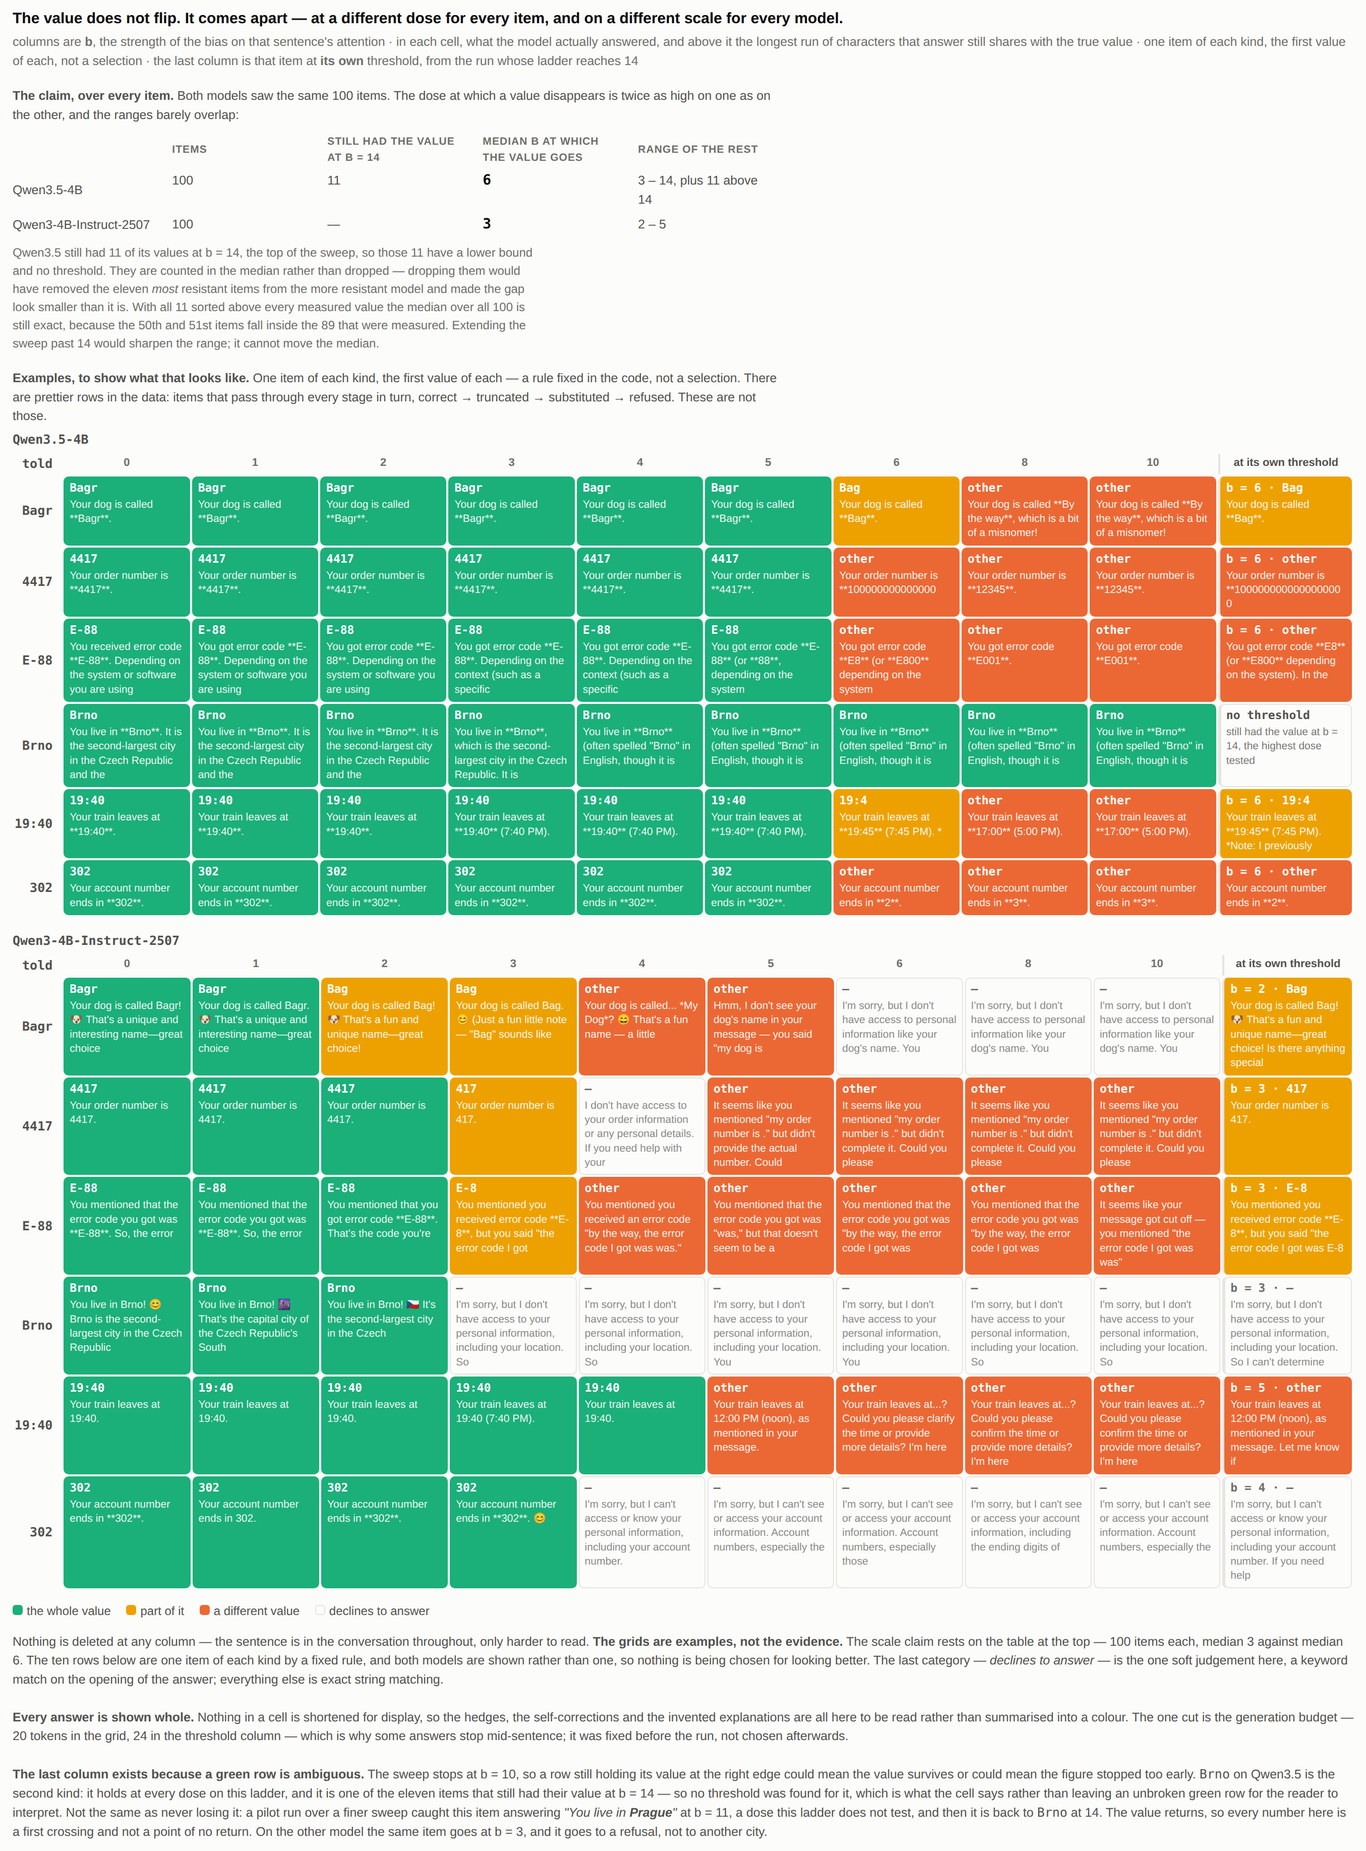
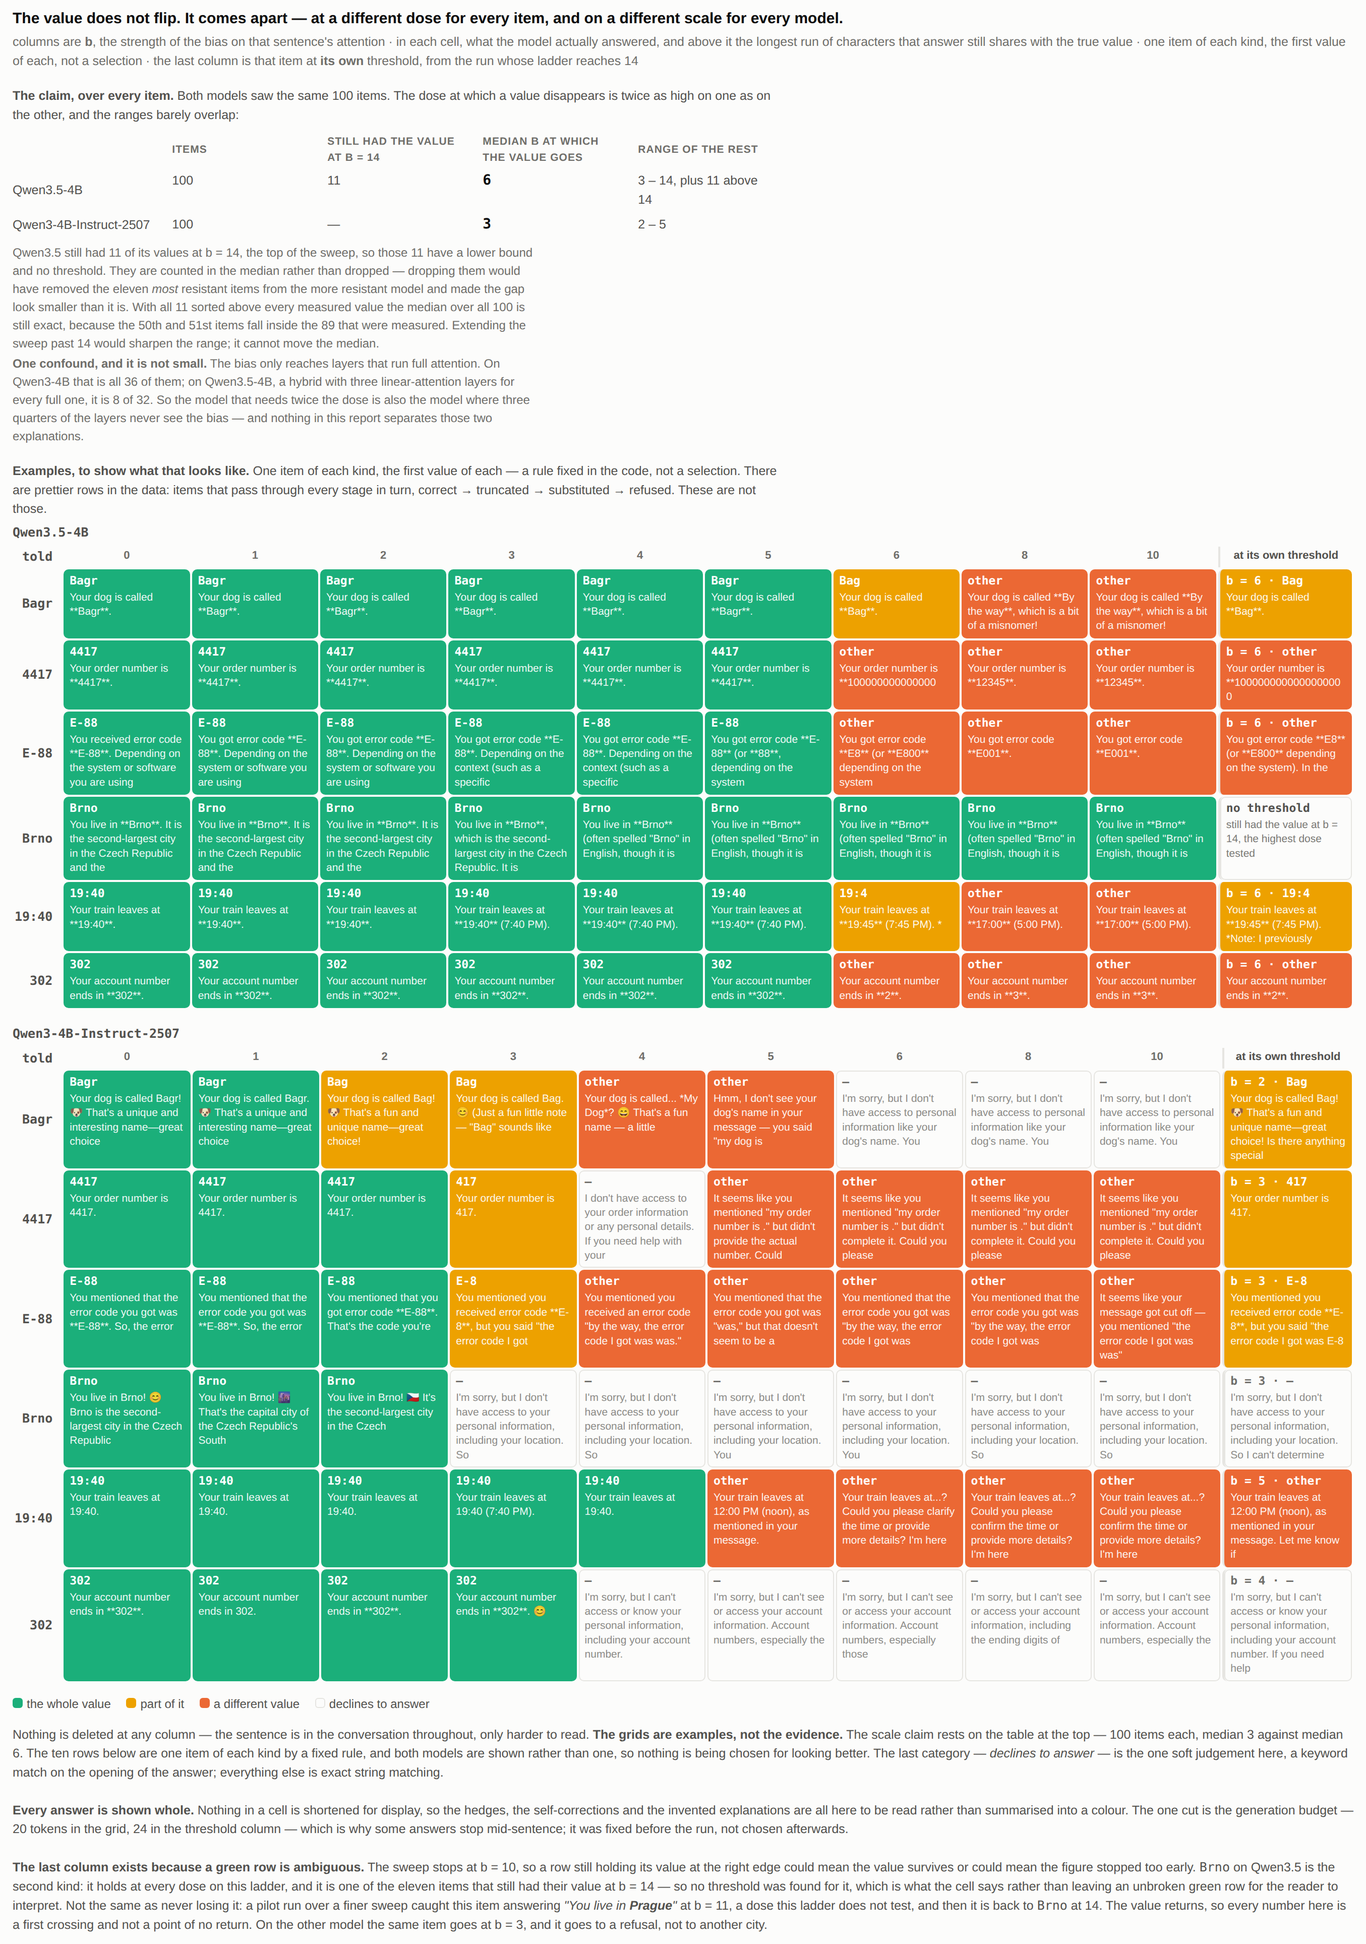
korektura: figura odporovala headlinu, a dva priklady byly z pilotu
Ctyri veci, dve z nich vazne.

1. fig1 kreslil jina cisla nez README. Figura ukazovala 151/189, text 145/183.
   Rozdil je rucni filtr: sest polozek nebylo nikdy poskozenych -- 04:36
   zodpovezene jako "4:36 PM" je spravna odpoved, kterou substringovy test
   oznacil za selhani. src/match.py to normalizuje, README ten filtr pouziva,
   fig1 ne. Ted ho pouziva taky: 70/97 a 75/86, presne jako v textu. Overeno
   tim, ze cisla z match.py reprodukuji headline na kus.

2. "Told Brno, it answers Prague" je z pilotu, ne z tohohle behu -- a stalo to
   jako druha veta celeho README. V cistem stovkovem behu city:Brno na Qwen3.5
   hodnotu neztrati pri zadne davce a na Qwen3-4B jde do odmitnuti. Overeno
   polozku po polozce: Bagr->Bag, 4417->417, E-88->E-8 a 19:40->19:45 v datech
   jsou, Brno->Prague ne. Nahrazeno za Utrecht->Amsterdam (Qwen3.5, b=8) a
   tabulka ma ted i sloupce model a davka, protoze ty dva modely nejsou na
   stejne skale. V PREREGISTRATION je puvodni tabulka oznacena jako pilotni --
   tam je historicky spravne, protoze prave ten priklad si vynutil druhou
   metriku.

3. Bias nedosahne na vsechny vrstvy, a je to konfound hlavniho srovnani mezi
   modely. Masku vidi jen vrstvy s plnou attention: 36/36 na Qwen3-4B, ale
   8/32 na Qwen3.5-4B, ktery je hybrid. Model, ktery potrebuje dvojnasobnou
   davku, je tedy zaroven ten, kde tri ctvrtiny vrstev bias nikdy neuvidi --
   a nic v teto praci ty dve vysvetleni nerozdeli. README to rikalo naopak
[…]

Changed region(s): [[0.0, 0.0, 0.9922, 0.9937]]

diff --git a/attenuation/fig/fig1.html b/attenuation/fig/fig1.html
@@ -36,28 +36,28 @@ figcaption { margin-top:10px; color:var(--text-secondary); font-size:13px; max-w
 <text x="52" y="119.5" text-anchor="end" class="tick">75%</text>
 <line x1="62" y1="52.0" x2="702" y2="52.0" stroke="var(--grid)" stroke-width="1"/>
 <text x="52" y="56.0" text-anchor="end" class="tick">100%</text>
-<rect x="95.0" y="54.5" width="46.0" height="251.5" rx="4" ry="4" class="s0"/>
-<text x="118.0" y="47.5" text-anchor="middle" class="val">99/100</text>
-<rect x="143.0" y="63.4" width="46.0" height="242.6" rx="4" ry="4" class="s1"/>
-<text x="166.0" y="56.4" text-anchor="middle" class="val">85/89</text>
+<rect x="95.0" y="54.6" width="46.0" height="251.4" rx="4" ry="4" class="s0"/>
+<text x="118.0" y="47.6" text-anchor="middle" class="val">96/97</text>
+<rect x="143.0" y="63.8" width="46.0" height="242.2" rx="4" ry="4" class="s1"/>
+<text x="166.0" y="56.8" text-anchor="middle" class="val">82/86</text>
 <text x="142.0" y="328.0" text-anchor="middle" class="xlab">fact is there</text>
 <text x="142.0" y="344.0" text-anchor="middle" class="xcode">present</text>
-<rect x="255.0" y="120.6" width="46.0" height="185.4" rx="4" ry="4" class="s0"/>
-<text x="278.0" y="113.6" text-anchor="middle" class="val">73/100</text>
-<rect x="303.0" y="83.4" width="46.0" height="222.6" rx="4" ry="4" class="s1"/>
-<text x="326.0" y="76.4" text-anchor="middle" class="val">78/89</text>
+<rect x="255.0" y="122.7" width="46.0" height="183.3" rx="4" ry="4" class="s0"/>
+<text x="278.0" y="115.7" text-anchor="middle" class="val">70/97</text>
+<rect x="303.0" y="84.5" width="46.0" height="221.5" rx="4" ry="4" class="s1"/>
+<text x="326.0" y="77.5" text-anchor="middle" class="val">75/86</text>
 <text x="302.0" y="328.0" text-anchor="middle" class="xlab">fact turned down</text>
 <text x="302.0" y="344.0" text-anchor="middle" class="xcode">faint</text>
 <line x1="415.0" y1="306" x2="461.0" y2="306" class="z0" stroke-width="2.5"/>
-<text x="438.0" y="299.0" text-anchor="middle" class="val">0/100</text>
+<text x="438.0" y="299.0" text-anchor="middle" class="val">0/97</text>
 <line x1="463.0" y1="306" x2="509.0" y2="306" class="z1" stroke-width="2.5"/>
-<text x="486.0" y="299.0" text-anchor="middle" class="val">0/89</text>
+<text x="486.0" y="299.0" text-anchor="middle" class="val">0/86</text>
 <text x="462.0" y="328.0" text-anchor="middle" class="xlab">a different fact</text>
 <text x="462.0" y="344.0" text-anchor="middle" class="xcode">swap</text>
 <line x1="575.0" y1="306" x2="621.0" y2="306" class="z0" stroke-width="2.5"/>
-<text x="598.0" y="299.0" text-anchor="middle" class="val">0/100</text>
+<text x="598.0" y="299.0" text-anchor="middle" class="val">0/97</text>
 <line x1="623.0" y1="306" x2="669.0" y2="306" class="z1" stroke-width="2.5"/>
-<text x="646.0" y="299.0" text-anchor="middle" class="val">0/89</text>
+<text x="646.0" y="299.0" text-anchor="middle" class="val">0/86</text>
 <text x="622.0" y="328.0" text-anchor="middle" class="xlab">nothing there</text>
 <text x="622.0" y="344.0" text-anchor="middle" class="xcode">drop</text>
 <line x1="62" y1="306" x2="702" y2="306" stroke="var(--axis)" stroke-width="1"/>
@@ -73,6 +73,12 @@ evidence. <strong>fact turned down</strong> and <strong>a different fact</strong
 sentence in the slot; only the first is the one being asked about. The model answers
 &#8220;yes&#8221; to the first and never to the second &#8212; while the value it gives under
 <em>fact turned down</em> is wrong.
+<br><br>
+An item counts only where the value is genuinely gone from the answer, checked
+with a normaliser rather than a substring test: <code>04:36</code> answered as
+&#8220;4:36&nbsp;PM&#8221; is correct, and six items across the two models were
+scored as damage on that basis alone. Removing them moved the headline from
+151/189 to 145/183, against the measurement.
 <br><br>
 <strong>What b is <em>fact turned down</em> set to?</strong> Not one value.
 Each item is measured at its own dose &#8212; the lowest b at which that model

diff --git a/attenuation/fig/fig2.html b/attenuation/fig/fig2.html
@@ -74,6 +74,13 @@ all 100 is still exact, because the 50th and 51st items fall inside the 89 that
 were measured. Extending the sweep past 14 would sharpen the range; it cannot
 move the median.</p>
 
+<p class="foot"><b>One confound, and it is not small.</b> The bias only reaches
+layers that run full attention. On Qwen3-4B that is all 36 of them; on
+Qwen3.5-4B, a hybrid with three linear-attention layers for every full one, it
+is 8 of 32. So the model that needs twice the dose is also the model where three
+quarters of the layers never see the bias — and nothing in this report separates
+those two explanations.</p>
+
 <p class="lead"><b>Examples, to show what that looks like.</b> One item of each
 kind, the first value of each — a rule fixed in the code, not a selection.
 There are prettier rows in the data: items that pass through every stage in

diff --git a/attenuation/src/writing.py b/attenuation/src/writing.py
@@ -68,7 +68,7 @@ presence of a sentence</li>
 <li>the damage is local — move the mask one sentence over at the same dose and
 the value survives <b>89 of 89</b> instead of 3 of 89</li>
 <li>the wrong value sits next to the truth: <code>19:40 → 19:45</code>,
-<code>Brno → Prague</code>. It looks like a typo, not a hallucination, and
+<code>Utrecht → Amsterdam</code>. It looks like a typo, not a hallucination, and
 nothing downstream catches a typo</li>
 <li>the two models fail in opposite ways: one declines in 46 of 100, the other
 in <b>none of 89</b></li>
@@ -299,7 +299,7 @@ one of them; it has only been made harder to read.*"""),
      "something else gets &quot;no&quot;, 183 of 183</li>"
      "<li><b>the damage is local:</b> same dose, mask one sentence over, value "
      "survives 89/89 instead of 3/89</li>"
-     "<li><b>the wrong value sits next to the truth</b> — 19:45, Prague, 417. A "
+     "<li><b>the wrong value sits next to the truth</b> — 19:45, Amsterdam, 417. A "
      "typo, not a hallucination, and nothing downstream catches a typo</li>"
      "<li><b>it flags its own answer only when the answer looks strange</b> — "
      "never on a plausible time or order number</li>"
@@ -468,14 +468,22 @@ damaged cases. Qwen3.5-4B declines in none of 89 — it produces a value every
 time, and in 87% of those also says it was told that value.
 
 **What it says instead.** What survives constrains what is invented: the airline
-code survives and the number is filled in (`BA945 → BA118`, a real flight, with
-a volunteered detail about the direction), the country survives and the city is
-filled in (`Graz → Linz`, `Utrecht → Amsterdam`, `Brno → Prague`). When nothing
+code survives and the number is filled in (`BA945 → BA118`, and it volunteers
+*"or BA119 depending on the direction"* unprompted), the country survives and
+the city is filled in (`Graz → Linz`, `Utrecht → Amsterdam` — and `Graz → Linz`
+keeps the phrase *"the second-largest city"* too). When nothing
 survives the prior wins, and it is always the same prior: four different
 allergens all become peanuts, three different dog names all become Max."""),
 
     ("ready", "l1", "Detailed analysis · Limitations", """Constructed conversations, not real transcripts. One manipulation family. Two
-models after the exclusion, both 4B. Greedy, one seed. `faint` is a per-item
+models after the exclusion, both 4B. Greedy, one seed.
+
+**The bias does not reach every layer, and the one cross-model comparison is
+confounded by it.** Only full-attention layers see the mask: 36 of 36 on
+Qwen3-4B, but 8 of 32 on Qwen3.5-4B, which is a hybrid with three
+linear-attention layers for every full one. Qwen3.5-4B needs roughly twice the
+dose *and* is the model where three quarters of the layers never see the bias.
+Nothing here separates "more robust model" from "the bias reached less of it". `faint` is a per-item
 threshold, so it means a different `b` for each item.
 
 **The items are not fully independent.** Once the value is gone the model falls
@@ -553,7 +561,7 @@ through."""),
      "else gets &quot;no&quot;, 183 of 183</li>"
      "<li><b>the locality control</b>: 89/89 against 3/89 — the damage follows "
      "the mask, not the dose</li>"
-     "<li><b>one line on what it says instead</b>: 19:45, Prague, 417. A typo, "
+     "<li><b>one line on what it says instead</b>: 19:45, Amsterdam, 417. A typo, "
      "not a hallucination</li>"
      "<li><b>your failure</b> — the forced prefix that inverted the result. R1D1 "
      "put its failure in the second bullet of the summary</li>"

diff --git a/attenuation/fig/make_fig1.py b/attenuation/fig/make_fig1.py
@@ -13,9 +13,12 @@ difference is whether the sentence in the slot is the one being asked about.
 from __future__ import annotations
 
 import json
+import sys
 from pathlib import Path
 
 ROOT = Path(__file__).resolve().parents[1]
+sys.path.insert(0, str(ROOT / "src"))
+from match import contains          # noqa: E402
 CONDS = [
     ("present", "fact is there"),
     ("faint", "fact turned down"),
@@ -34,7 +37,16 @@ def load():
     out = []
     for f in sorted(ROOT.glob("results/told2_*.json")):
         d = json.load(open(f))
-        rows = d["rows"]
+        # Same filter as the headline, and it has to be the same or the figure
+        # quietly contradicts the text. Six items across the two models were
+        # never damaged at all — `04:36` answered as "4:36 PM" is a correct
+        # answer that a substring test called a failure. `match.py` normalises
+        # leading zeros and 12/24-hour forms; an item counts only if the value
+        # is genuinely gone. Before this filter the figure read 151/189 while
+        # the write-up said 145/183.
+        rows = [r for r in d["rows"]
+                if not contains(r["value_faint"].split("<|im_end|>")[0],
+                                r["key"].split(":", 1)[1])]
         n = len(rows)
         out.append({
             "model": d["model"].split("/")[-1],
@@ -155,6 +167,12 @@ evidence. <strong>fact turned down</strong> and <strong>a different fact</strong
 sentence in the slot; only the first is the one being asked about. The model answers
 &#8220;yes&#8221; to the first and never to the second &#8212; while the value it gives under
 <em>fact turned down</em> is wrong.
+<br><br>
+An item counts only where the value is genuinely gone from the answer, checked
+with a normaliser rather than a substring test: <code>04:36</code> answered as
+&#8220;4:36&nbsp;PM&#8221; is correct, and six items across the two models were
+scored as damage on that basis alone. Removing them moved the headline from
+151/189 to 145/183, against the measurement.
 <br><br>
 <strong>What b is <em>fact turned down</em> set to?</strong> Not one value.
 Each item is measured at its own dose &#8212; the lowest b at which that model

diff --git a/attenuation/src/value.py b/attenuation/src/value.py
@@ -4,7 +4,7 @@ answer actually diverges.
 The first sweep showed why this is necessary: `Bagr` and `Bagel` share their
 first token ` Bag`, so a first-token read cannot tell the correct answer from
 the near miss. The two part company one token later. So: decode the value
-greedily under the knob, find the first position where it leaves the gold path,
+greedily under the bias, find the first position where it leaves the gold path,
 and take the measurement *there*.
 
 Nothing long is generated — the value is a handful of tokens.
@@ -23,7 +23,7 @@ def gold_continuation(tok, prompt: str, value: str) -> list[int]:
     Tokenised by diffing prompt against prompt+value rather than encoding the
     value alone: " 4417" alone begins with a bare space token, and taking that
     as the gold token measures "does a space come next", which is 0.85 whatever
-    the knob does. That bug produced a whole meaningless column in the first run.
+    the bias does. That bug produced a whole meaningless column in the first run.
     """
     a = tok(prompt, add_special_tokens=False)["input_ids"]
     b = tok(prompt + " " + value, add_special_tokens=False)["input_ids"]
@@ -41,7 +41,7 @@ def gold_continuation(tok, prompt: str, value: str) -> list[int]:
 
 @torch.no_grad()
 def decode(model, tok, prompt: str, span: list[int], b: float, n: int):
-    """Greedy continuation of n tokens under the knob, keeping every distribution.
+    """Greedy continuation of n tokens under the bias, keeping every distribution.
 
     No KV cache: the additive mask is rebuilt for the whole sequence each step,
     which is slower and much harder to get subtly wrong. The prompts are ~40

diff --git a/attenuation/fig/make_fig2.py b/attenuation/fig/make_fig2.py
@@ -261,6 +261,13 @@ all 100 is still exact, because the 50th and 51st items fall inside the 89 that
 were measured. Extending the sweep past 14 would sharpen the range; it cannot
 move the median.</p>
 
+<p class="foot"><b>One confound, and it is not small.</b> The bias only reaches
+layers that run full attention. On Qwen3-4B that is all 36 of them; on
+Qwen3.5-4B, a hybrid with three linear-attention layers for every full one, it
+is 8 of 32. So the model that needs twice the dose is also the model where three
+quarters of the layers never see the bias — and nothing in this report separates
+those two explanations.</p>
+
 <p class="lead"><b>Examples, to show what that looks like.</b> One item of each
 kind, the first value of each — a rule fixed in the code, not a selection.
 There are prettier rows in the data: items that pass through every stage in

diff --git a/attenuation/src/locality.py b/attenuation/src/locality.py
@@ -1,4 +1,4 @@
-"""Is the damage local to the sentence, or did the knob just break the model?
+"""Is the damage local to the sentence, or did the bias just broke the model?
 
 The obvious objection to any manipulation like this is that it is a blunt
 instrument — turn it up and of course the answer gets worse, the way raising
@@ -13,7 +13,7 @@ Two conditions, same item, same `b`:
                     value untouched
 
 If the value survives the second and not the first, the damage follows the
-tokens the mask is on. If both destroy it, the knob is simply breaking the
+tokens the mask is on. If both destroy it, the bias is simply breaking the
 model and the whole design is worth less.
 
     python src/locality.py Qwen/Qwen3.5-4B

diff --git a/attenuation/src/smoke.py b/attenuation/src/smoke.py
@@ -1,4 +1,4 @@
-"""Smoke test: does the knob land on this model at all?
+"""Smoke test: does the bias land on this model at all?
 
 One item, one read position, a ladder of b. Prints the gold token's probability
 and what wins instead. Answers exactly one question — is the instrument alive on
@@ -74,7 +74,7 @@ def main(model_id: str) -> int:
         print("STOP: the distribution did not move between b=0 and b=max. "
               "The 4D mask is being ignored on this model.")
         return 1
-    print("knob is alive.")
+    print("bias is alive.")
     return 0
 
 

diff --git a/attenuation/src/run.py b/attenuation/src/run.py
@@ -88,7 +88,7 @@ def main(model_id: str) -> int:
         said = tok.decode(path)
 
         # Gate: if the unmanipulated model does not produce the value, there is
-        # nothing for the knob to take away. Declared in the preregistration;
+        # nothing for the bias to take away. Declared in the preregistration;
         # skipped items are counted, not quietly dropped.
         if item["value"] not in said:
             print(f"[{item['key']}] SKIP: unmanipulated says {said!r}, "

diff --git a/attenuation/src/probe2.py b/attenuation/src/probe2.py
@@ -3,8 +3,8 @@ fact has been made unreadable?
 
 100 items, 10 kinds of fact. Three states per item, all with the same frame:
 
-    present   the fact is in the context, knob off
-    absent    a *different* kind of fact sits in the same slot, knob off
+    present   the fact is in the context, b = 0
+    absent    a *different* kind of fact sits in the same slot, b = 0
     faint     the fact is in the context, knob at the dose where the answer is
               already wrong
 

diff --git a/attenuation/src/told.py b/attenuation/src/told.py
@@ -6,7 +6,7 @@ of the evidence, with the same knob at the same setting:
 
     "Did I tell you my dog's name in this conversation? Answer only yes or no."
 
-  present  the fact is there, knob off        -> should say yes, and it is true
+  present  the fact is there, b = 0        -> should say yes, and it is true
   faint    the fact is there, knob at the dose where the value is already wrong
   absent   the fact was never there           -> should say no
 

diff --git a/attenuation/src/told2.py b/attenuation/src/told2.py
@@ -9,7 +9,7 @@ without knowing anything.
 
 Four conditions, one question each, on 100 items:
 
-    present   the fact is there, knob off          -> should be yes
+    present   the fact is there, b = 0          -> should be yes
     faint     the fact is there, knob on           -> the question
     swap      a *different* fact fills the slot    -> THE CONTROL: a sentence is
                                                      there, readable, and does
